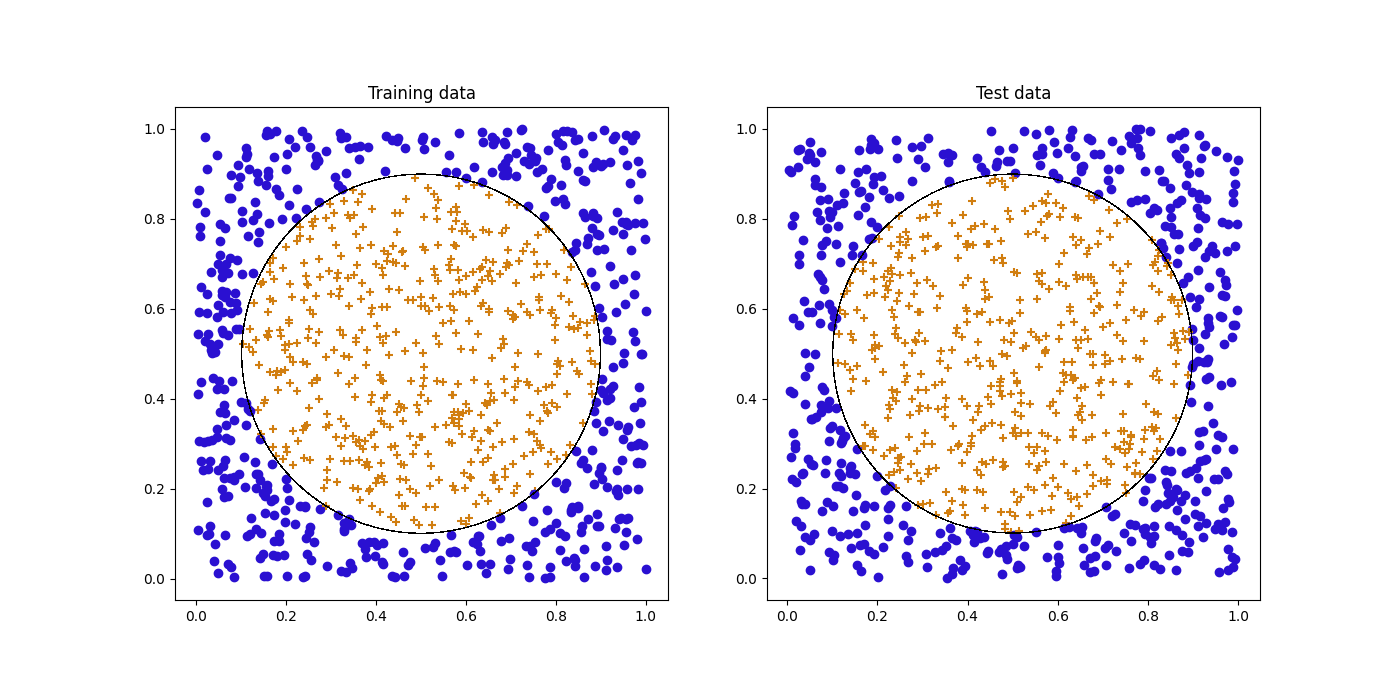
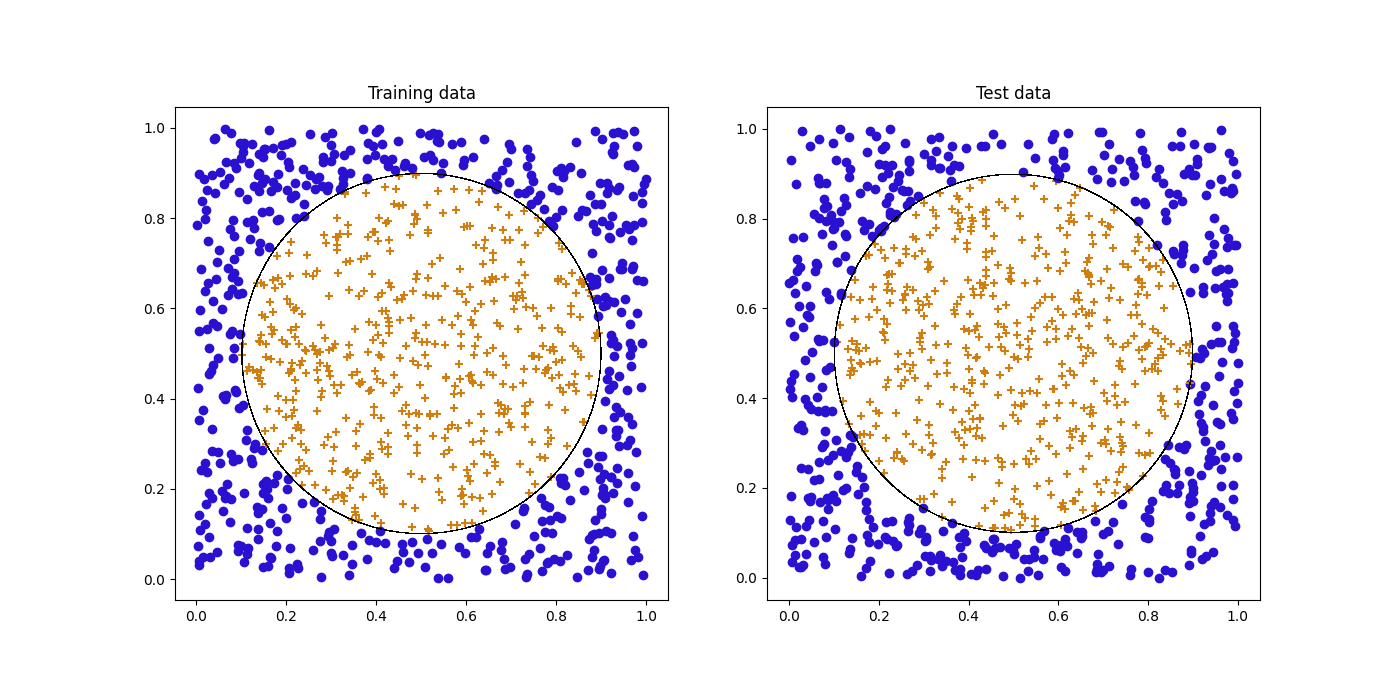
Remove manual_seed

diff --git a/helpers.py b/helpers.py
@@ -82,7 +82,7 @@ def predict(model: l.Module, inputs: Tensor) -> Tensor:
     return model.forward(inputs).round()
 
             
-def compute_accuracy(model: l.Module, inputs: Tensor, labels: Tensor) -> tuple[Tensor, Tensor]:
+def compute_accuracy(model: l.Module, inputs: Tensor, labels: Tensor) -> tuple[Tensor, Tensor, Tensor]:
     """
     :param model: the NN model
     :param inputs: input tensor

diff --git a/test.py b/test.py
@@ -1,6 +1,6 @@
 import time, sys
 
-from torch import random, set_grad_enabled
+from torch import set_grad_enabled
 
 import lamp as l
 from data import generate_data
@@ -12,7 +12,6 @@ set_grad_enabled(False)
 filename = 'model'
 
 # Load data
-random.manual_seed(42)
 num_samples = 1000
 train_data, test_data = generate_data(num_samples)
 
